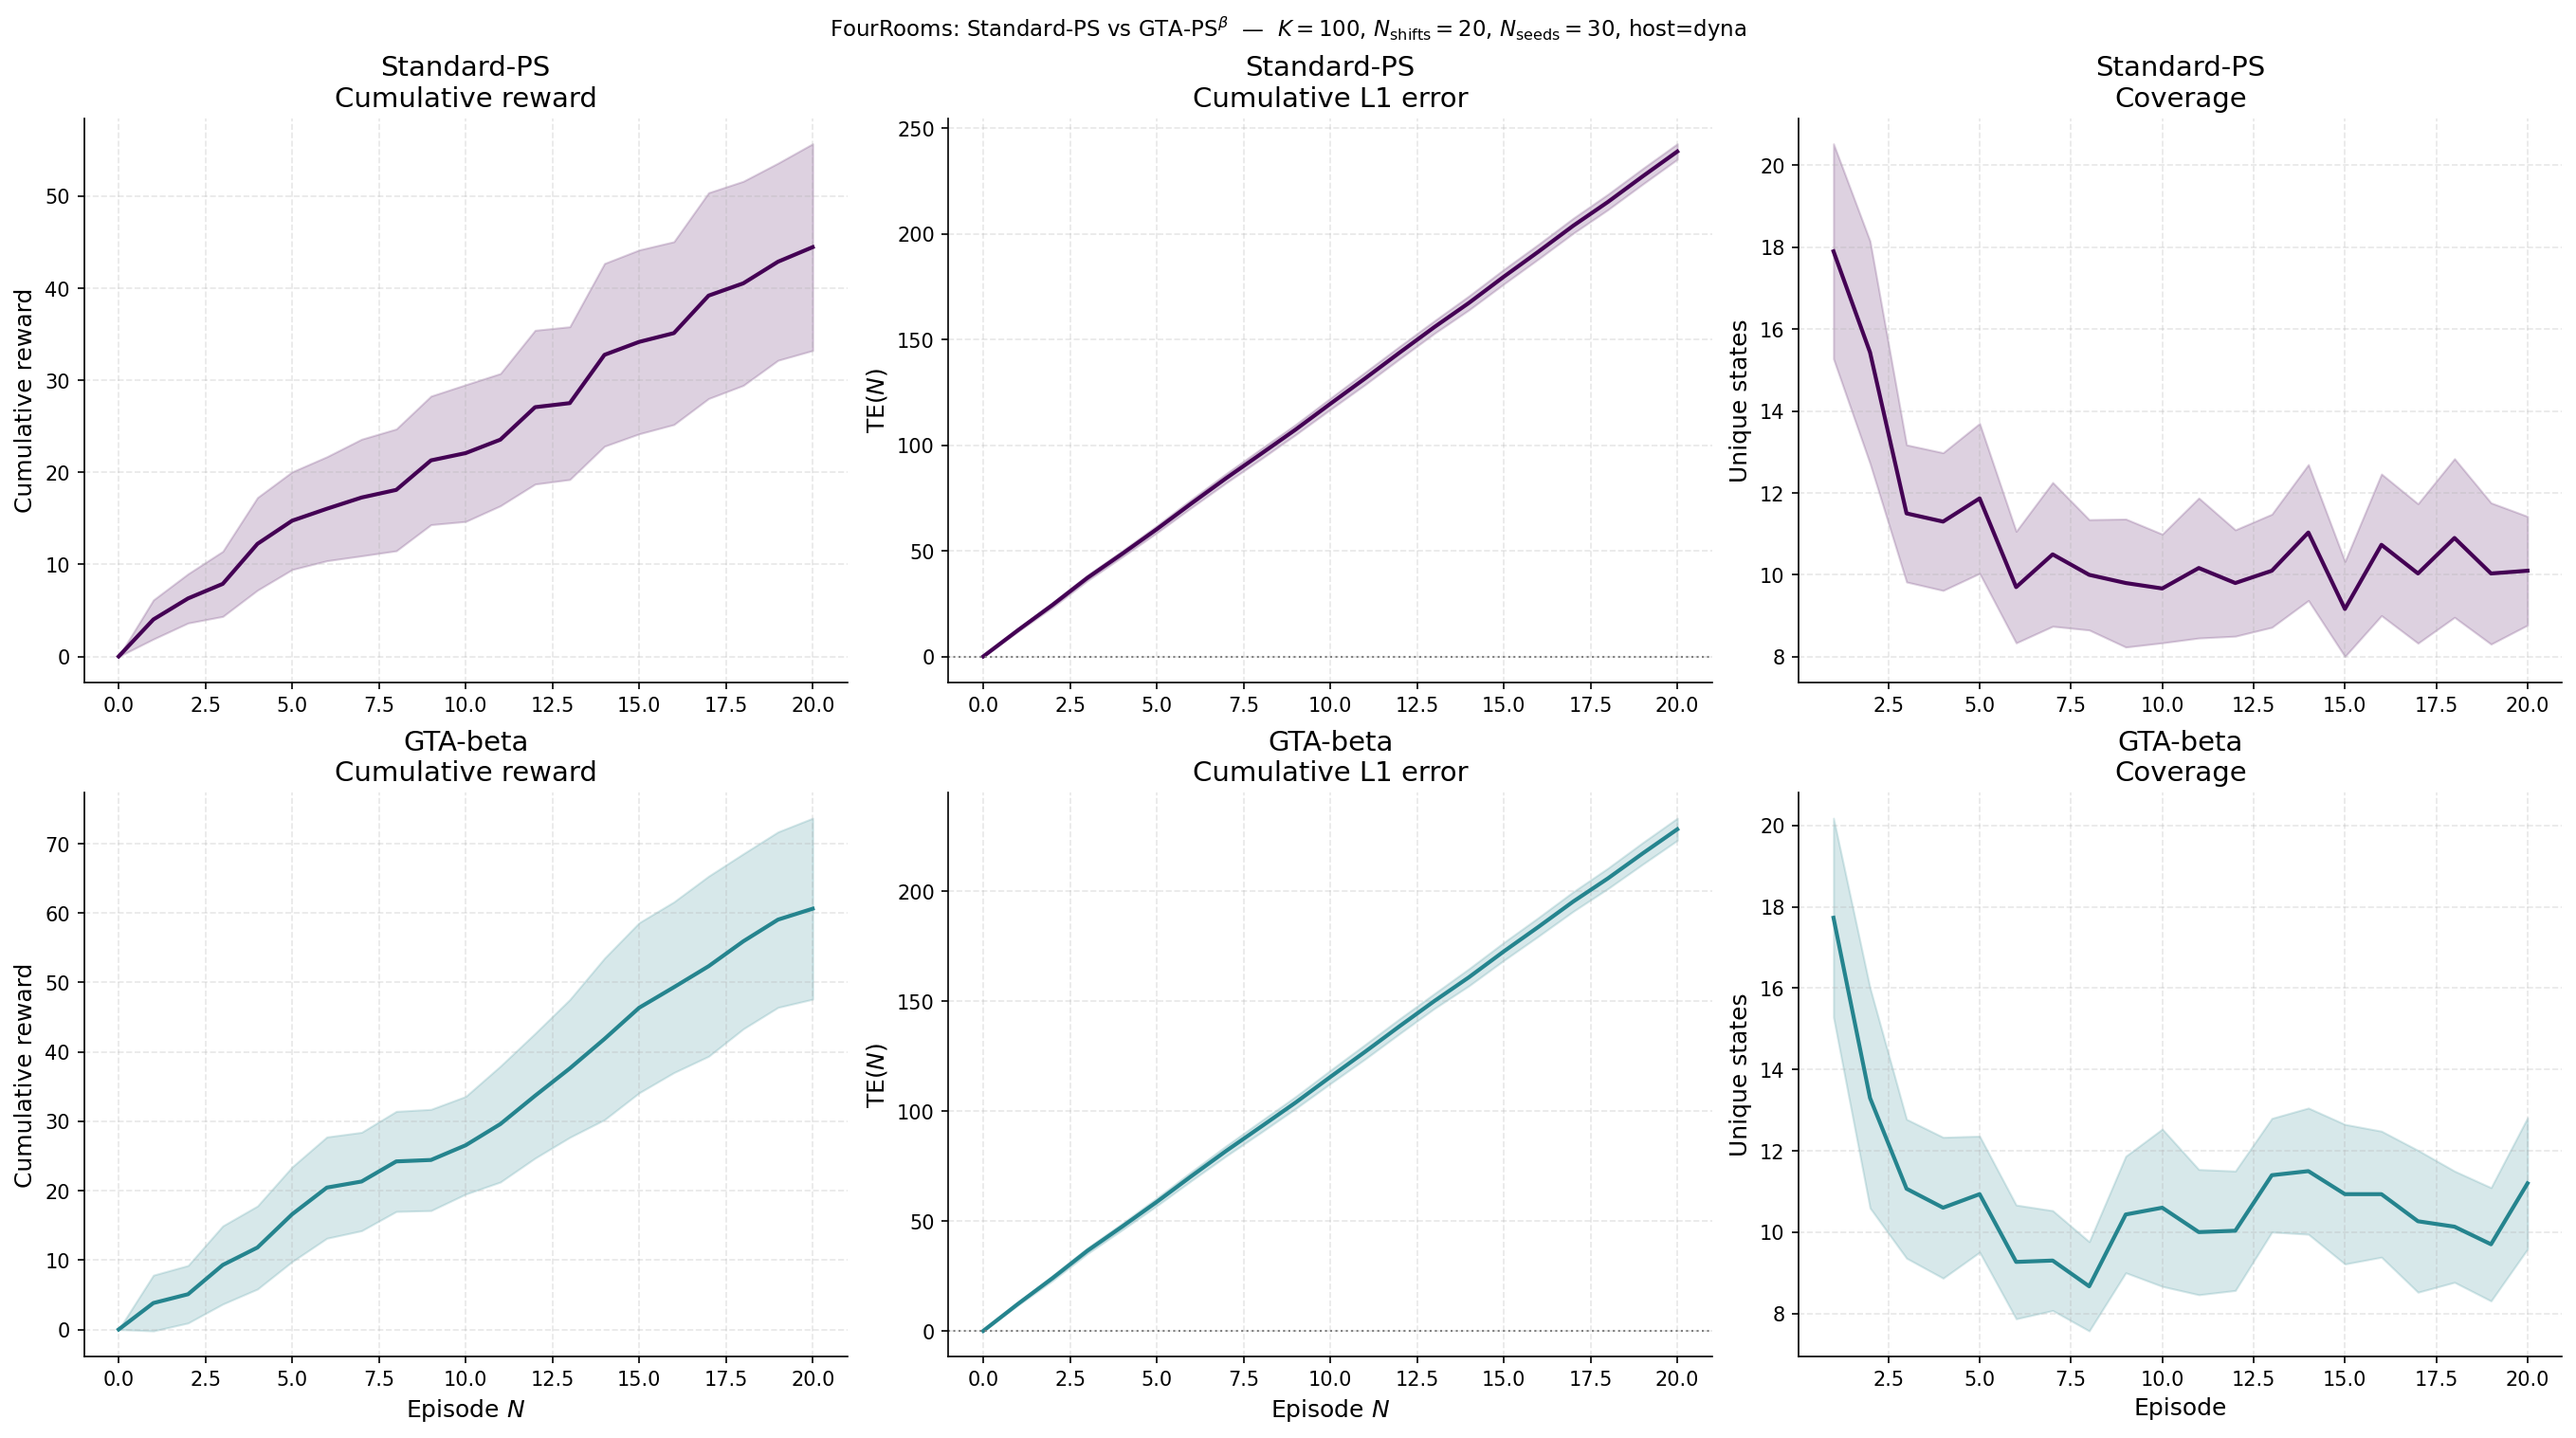
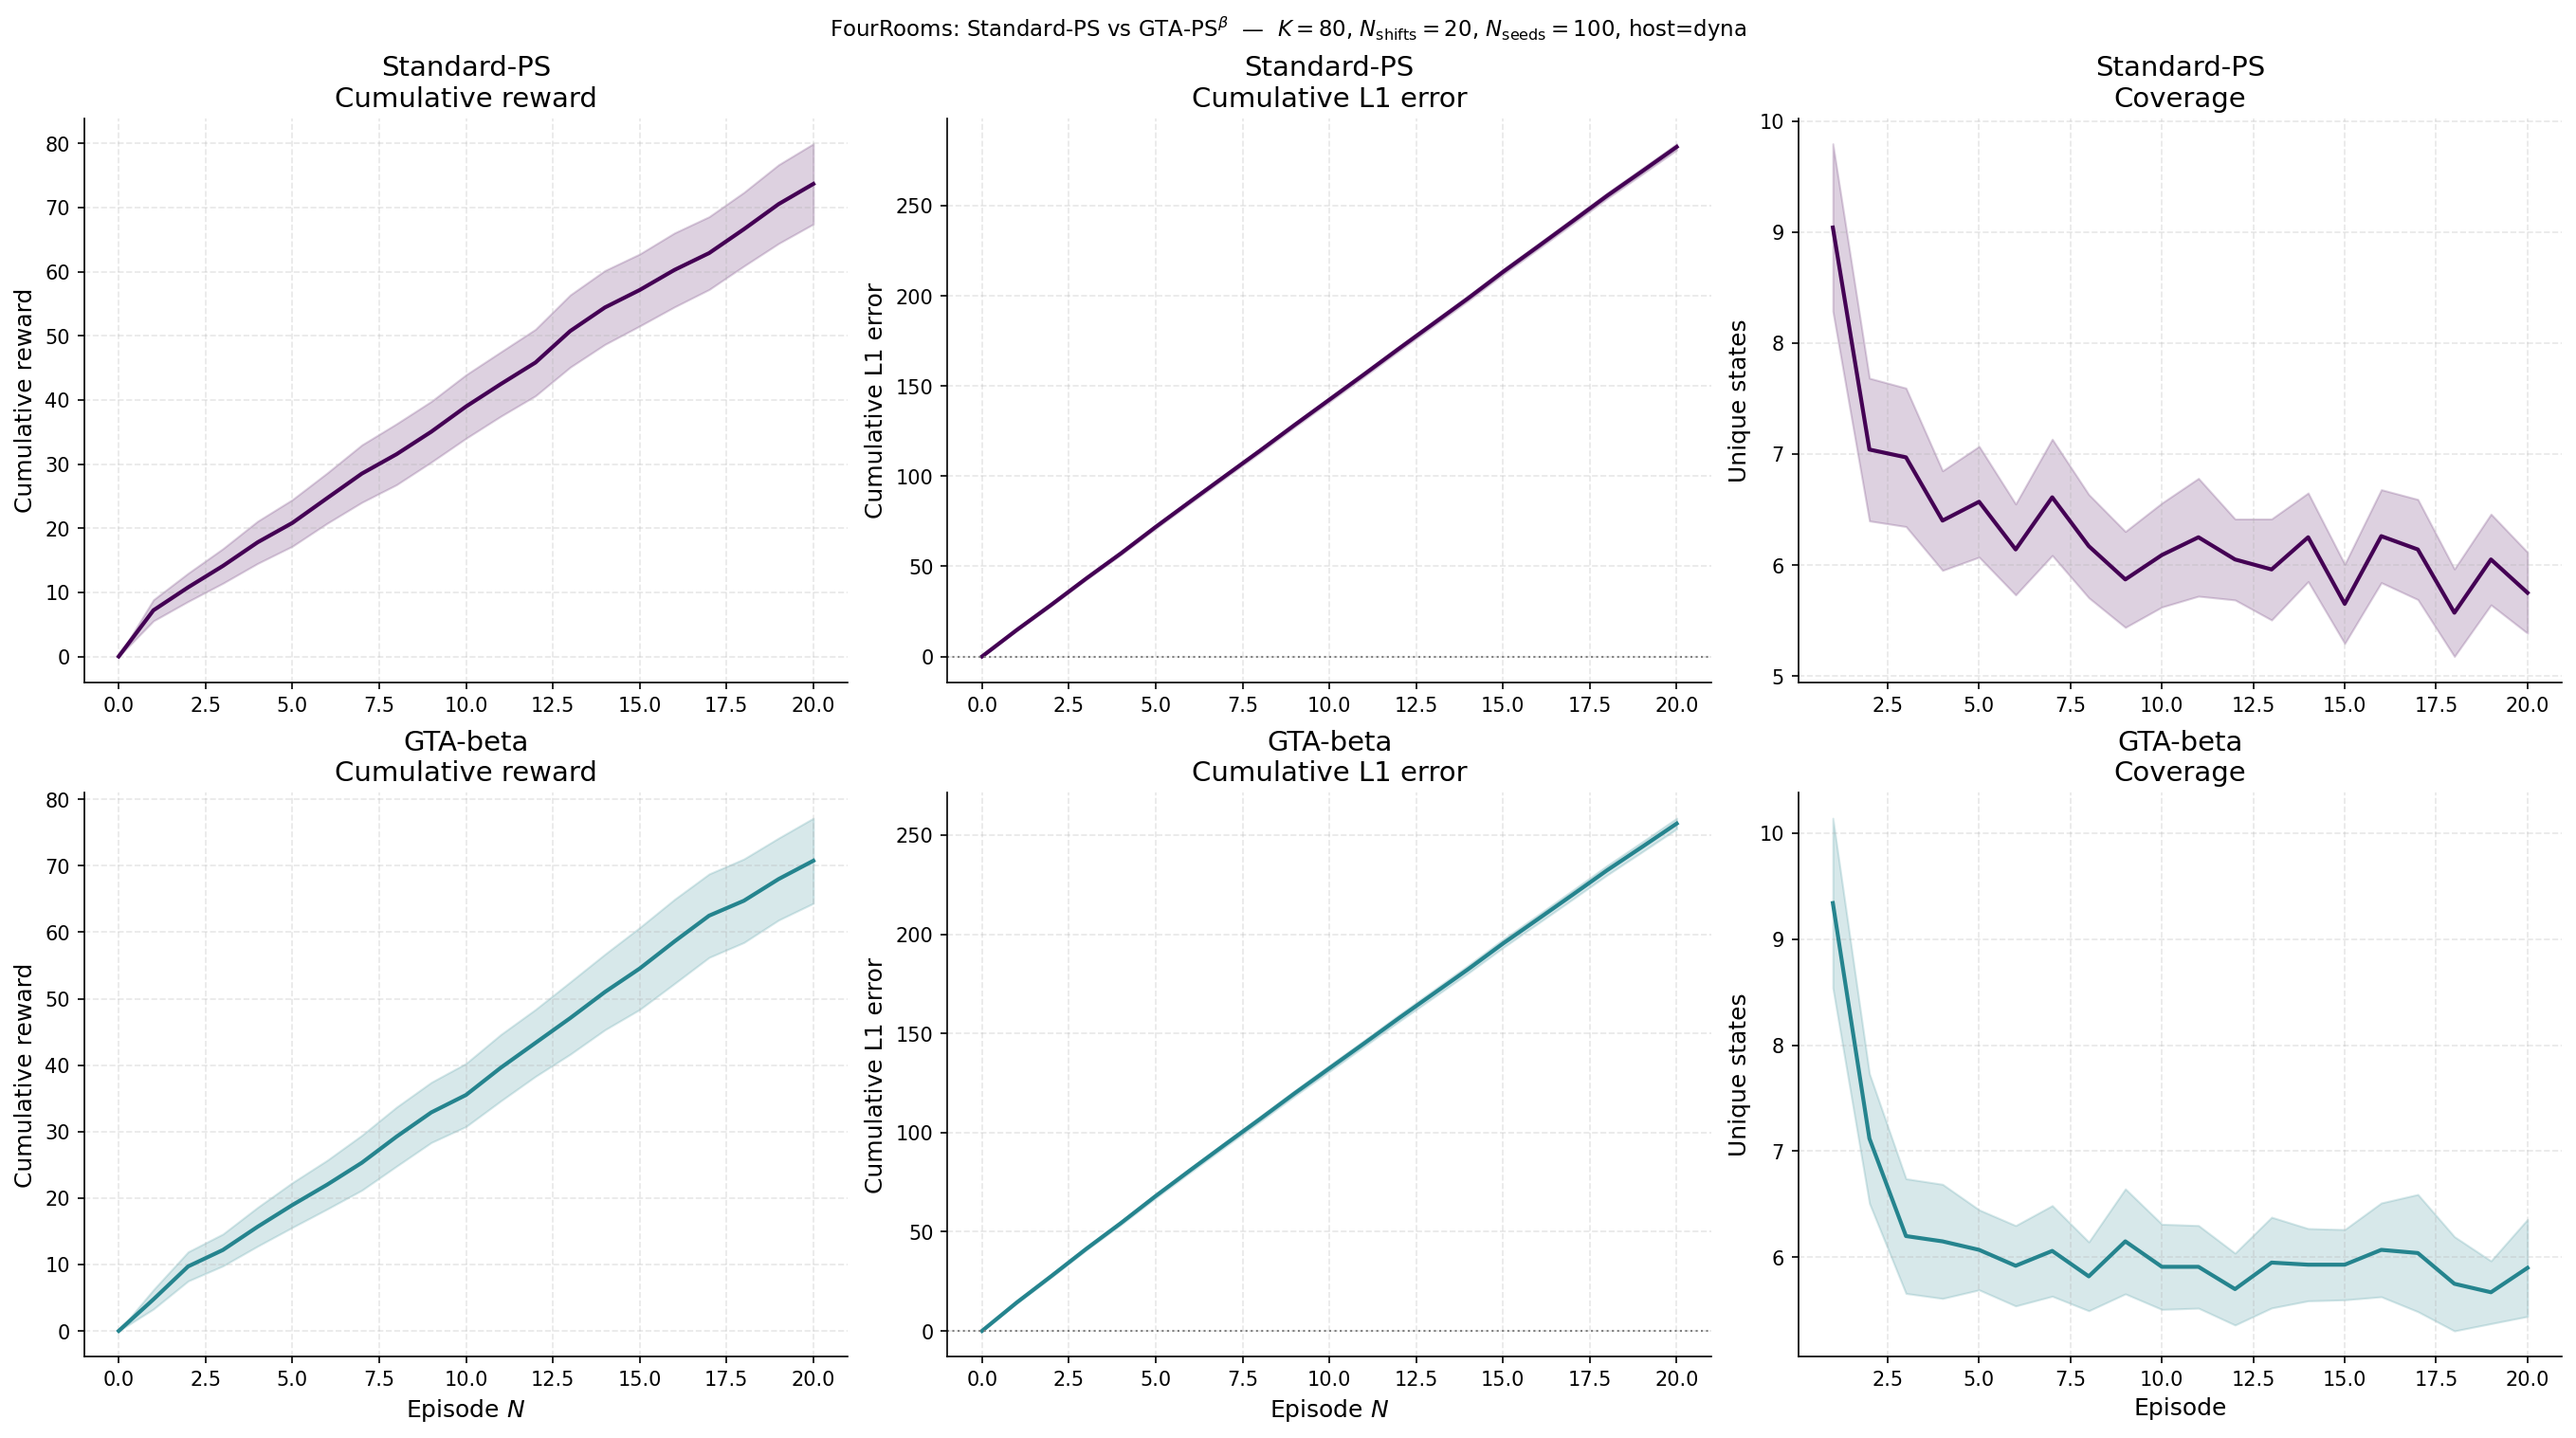
Update

diff --git a/misc/showcase.py b/misc/showcase.py
@@ -70,15 +70,15 @@ from plot_academic import apply_style, get_palette, LABELS as AGENT_LABELS
 # Configuration
 # ---------------------------------------------------------------------------
 
-K = 80                  # planning budget per host step
-ABLATION_T_SHIFT = 50   # ablation reward-shift interval (real steps)
-SHOWCASE_T_SHIFT = 50   # showcase reward-shift interval (real steps)
+K = 60                  # planning budget per host step
+ABLATION_T_SHIFT = 90   # ablation reward-shift interval (real steps)
+SHOWCASE_T_SHIFT = 90   # showcase reward-shift interval (real steps)
 ABLATION_ROOM_SIZE = 3  # 2 * room_size + corridor_len + 2 = 9 with corridor_len=1
 ABLATION_CORRIDOR_LEN = 1
 SHOWCASE_ROOM_SIZE = 3  # 2 * room_size + corridor_len + 2 = 9 with corridor_len=1
 SHOWCASE_CORRIDOR_LEN = 1
-N_SHIFTS = 20           # total number of reward shifts (episodes) for ablation mode
-EPS      = 0.15  # epsilon-greedy exploration rate
+N_SHIFTS = 30           # total number of reward shifts (episodes) for ablation mode
+EPS      = 0.1   # epsilon-greedy exploration rate
 GAMMA    = 0.95  # discount factor
 
 VARIANTS = ["standard_ps", "gta_beta"]

diff --git a/misc/mixing_threshold_ablation.py b/misc/mixing_threshold_ablation.py
@@ -71,7 +71,7 @@ except ImportError:
 # ---------------------------------------------------------------------------
 
 K_SWEEP            = [20, 50, 100]  # planning budget sweep (GTA needs K>=100 for topology)
-N_SHIFTS            = 5              # number of reward-shift episodes per seed
+N_SHIFTS            = 10              # number of reward-shift episodes per seed
 N_STEPS_PER_SHIFT   = 100            # env steps between shifts (monitors error over time)
 
 # Fixed room_size=3 -> 9x9 grid (2*3 + 1 + 2 = 9), ~40 passable states.

diff --git a/misc/cumulative_ablation.py b/misc/cumulative_ablation.py
@@ -76,7 +76,7 @@ N_EPISODES  = 20
 T_WARMUP    = 200           # real steps before episodes begin
 T_REAL      = 50            # real steps per episode (after shift)
 K           = 20            # planning steps per real step
-EPS_GREEDY  = 0.15    # epsilon-greedy exploration rate
+EPS_GREEDY  = 0.1           # epsilon-greedy exploration rate
 
 VARIANTS    = ["standard_ps", "gta_beta"]
 
